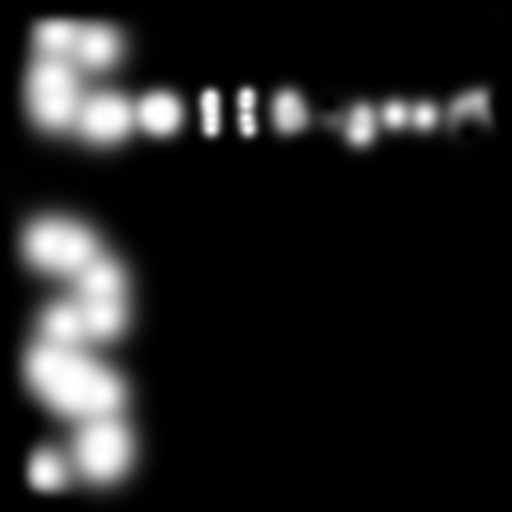
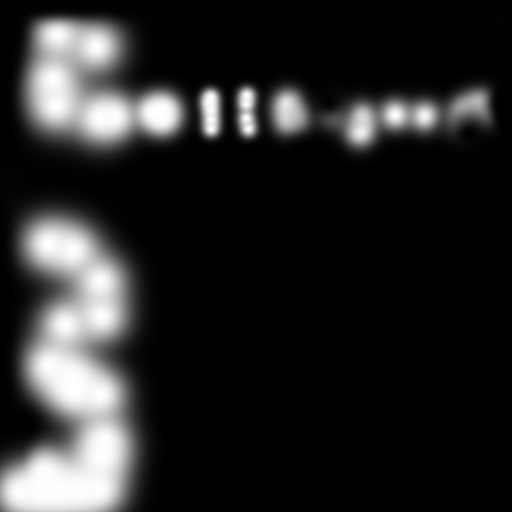
expand bounds a bit

Changed region(s): [[0.0, 0.875, 0.2812, 1.0]]

diff --git a/src/js/Webgl/World/Bases/Grass/Grass.js b/src/js/Webgl/World/Bases/Grass/Grass.js
@@ -87,6 +87,10 @@ export default class Grass extends BaseObject {
 
 	setRenderTarget() {
 		const boundingBox = new Box3().setFromObject(this.scene.ground.base.realMesh);
+		boundingBox.min.z -= 1;
+		boundingBox.max.z += 1;
+		boundingBox.min.x -= 1;
+		boundingBox.max.x += 1;
 
 		this.minBox = boundingBox.min;
 		this.maxBox = boundingBox.max;
